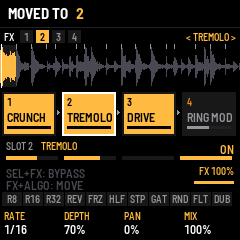
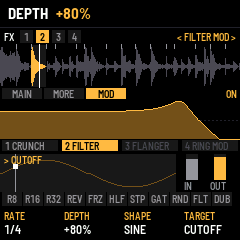
FX: every effect's view, MORE and MOD (docs)
PRD A-49b; the manual's FX chapter (each effect's picture, the MORE knobs per effect,
the MOD page, new screenshots); the control map's FX page (MAIN / MORE / MOD, slots as
tabs); README.

Claude-Session: https://claude.ai/code/session_01YWuRNuPqhdSXLQh1YycYqW

diff --git a/app/site/controlmap.html b/app/site/controlmap.html
@@ -171,8 +171,10 @@
       { n: "OVERLAY", k: ["AMOUNT", "RATE", "SWEEP", "LATCH"], strip: "16 EFFECT CARDS, 4 × 4 · LIT WHILE ON · EACH ITS AMOUNT", note: "Hold a key: its effect, over everything" } ],
       algo: "Break", presets: "Pattern P1–P16", keys: "overlays",
       notes: [["Keys 1-8", "DIVE RISE RADIO WAH CRUSH LO-FI DIST RING"], ["Keys 9-16", "CHOP GATE DUCK PAN BOOM WOBBLE JET CUT"], ["K4 LATCH", "A press on, a press off (stays on other pages)"], ["SEL + ARP", "A random pattern (SEL + SAVE undoes)"]] },
-    { id: "fx", btn: "FX", name: "FX CHAIN", sub: "Four slots in series", again: "next slot (4)", part: true, subs: [1, 2, 3, 4].map(n =>
-      ({ n: "SLOT " + n, k: ["PARAM 1", "PARAM 2", "PARAM 3", "MIX"], strip: "THE CHAIN: 4 SLOTS", note: n === 1 ? "the focused slot outlined" : "" })),
+    { id: "fx", btn: "FX", name: "FX CHAIN", sub: "Four slots in series", again: "next part (MAIN, MORE, MOD), then the next slot", part: true, subs: [
+      { n: "MAIN", k: ["PARAM 1", "PARAM 2", "PARAM 3", "MIX"], strip: "THE EFFECT LIVE · THE CHAIN · ITS MODULATOR · IN / OUT", note: "ALGORITHM: the slot (1–4)" },
+      { n: "MORE", k: ["EXTRA 1", "EXTRA 2", "EXTRA 3", "EXTRA 4"], strip: "THE EFFECT LIVE · THE CHAIN · ITS MODULATOR · IN / OUT", note: "each effect its own: see §6" },
+      { n: "MOD", k: ["RATE", "DEPTH", "SHAPE", "TARGET"], strip: "THE EFFECT LIVE · THE CHAIN · ITS MODULATOR · IN / OUT", note: "ENV follows the effect's input" } ],
       algo: "Slot", presets: "Effect", keys: "slices",
       notes: [["SEL + FX", "Bypass the focused slot"], ["FX held + ALGO", "Move the slot along the chain"], ["Key held + FX", "That key's slice effect on K1–K4"],
               ["MB COMP focused", "FX again steps AMOUNT · LOW · MID · HIGH · GAIN · X-OVER, then the next slot"],
@@ -231,10 +233,10 @@
     const p = PAGES[cur], s = p.subs[sub], steps = p.keys === "steps" || p.keys === "taps" || p.keys === "overlays";
     root.querySelectorAll(".pbtn").forEach((b, i) => b.setAttribute("aria-pressed", String(i === cur)));
     $("subs").innerHTML = p.subs.map((x, i) => '<button type="button" class="sub" data-i="' + i + '" aria-pressed="' + (i === sub) + '">' + x.n + "</button>").join("");
-    const tabs = p.id === "edit" ? ["KICK", "SNARE", "HAT"] : p.subs.length > 1 ? p.subs.map(x => x.n.replace("SLOT ", "")) : [p.name];
-    const on = p.id === "edit" ? (sub < 5 ? 0 : 1) : sub;
+    const tabs = p.id === "edit" ? ["KICK", "SNARE", "HAT"] : p.id === "fx" ? ["1", "2", "3", "4"] : p.subs.length > 1 ? p.subs.map(x => x.n.replace("SLOT ", "")) : [p.name];
+    const on = p.id === "edit" ? (sub < 5 ? 0 : 1) : p.id === "fx" ? 0 : sub;
     $("tabs").innerHTML = "<b>" + p.btn + "</b>" + tabs.map((t, i) => '<span class="' + (i === on ? "on" : "") + '">' + t + "</span>").join("") +
-      (p.part ? "<em>&lt; " + (p.id === "edit" ? s.n.split(" · ")[1] : "TREMOLO") + " &gt;</em>" : "");
+      (p.part ? "<em>&lt; " + (p.id === "edit" ? s.n.split(" · ")[1] : "TREMOLO" + (sub ? " " + s.n : "")) + " &gt;</em>" : "");
     $("strip").innerHTML = s.strip + (s.note ? "<em>" + s.note + "</em>" : "");
     $("knobs").innerHTML = s.k.map((k, i) => k ? "<div>" + k + "<b>·····</b></div>" : '<div class="empty">K' + (i + 1) + "<b>&nbsp;</b></div>").join("");
     $("zones").innerHTML = [["HEADER", "Break, pattern, REC, tempo, meter", 1], ["TABS", p.btn + " › " + tabs.join(" · "), 0], ["WAVEFORM", "The break, the slice lit, the playhead", 1],

diff --git a/app/docs/MANUAL.md b/app/docs/MANUAL.md
@@ -254,14 +254,16 @@ They follow the tempo playing (stopped, they keep time by themselves). SAVE keep
 **FX** opens the master effects chain: four slots in series, the break (through its DJ filter, with the kick when it
 goes through the chain) into slot 1, then 2, 3 and 4, then on to the drums when they go around the chain, the DUB
 pad's delay and the limiter. Each slot holds any effect (two of one are fine), with
-three settings, a mix and a bypass. The tiles show the chain in order (lit: on), the one you tune outlined; below,
-its settings as bars over K1–K4.
+three settings, a mix and a bypass, and more knobs on two more parts (MORE and MOD, below). The screen shows the
+effect you tune as a live picture; under it the chain in order (yours lit, the bypassed ones dim), its modulator and
+its level in and out.
 
-![The FX chain: CRUNCH, then TREMOLO, then DRIVE, RING MOD bypassed](img/screen-fxchain.png "The FX chain")
+![FILTER in slot 2: its response, the cutoff swept by its modulator](img/screen-fxchain.png "The FX chain")
 
 | Control | Does |
 | --- | --- |
-| ALGORITHM · FX again | The slot to tune (1–4); on an MB COMP, FX again first steps through its six parts |
+| ALGORITHM | The slot to tune (1–4) |
+| FX again | The slot's next part: MAIN, MORE, MOD (an MB COMP: its six), then the next slot |
 | PRESETS | The effect in that slot, through the library (EMPTY first); a new effect comes in on, at its own starting settings |
 | K1–K3 · K4 | Its settings · its mix |
 | SEL + FX | That slot on / bypassed |
@@ -304,6 +306,54 @@ The chain starts as CRUNCH → FILTER → FLANGER → RING MOD, all bypassed: SE
 CRUNCH used to be HOME's K4; it is slot 1 now.
 
 STOP fades the break out at once (a white key held keeps looping); the reverb's and the dub delay's tails ring on.
+
+### Each effect's view, MORE and MOD
+
+Every effect (but MB COMP, which has its own page, below) has three parts, stepped by **FX again**: **MAIN** (its
+three settings and mix, as in the table above), **MORE** (its extra knobs) and **MOD** (a modulator that moves one of
+its settings in time). The tab bar names the part (`< FILTER MOD >`), the strip shows it lit.
+
+The picture above follows the sound as you turn:
+
+- **FILTER, FLANGER:** the response from 20 Hz to 20 kHz (the cutoff and resonance; the flanger's comb sweeping as
+  it plays). **EQ:** its three bands, ±12 dB about the middle line.
+- **DRIVE, CLIP, TAPE, CRUNCH:** a tone through it, the clean tone grey behind: rounded, squared, folded, stepped.
+  **PUNCH:** two hits, their peaks held down. **RING MOD:** the tone times its carrier. **TREMOLO:** a tone under two
+  of its cycles.
+- **REVERB:** its decay over 3 s (0 to −60 dB), the pre-delay a gap. **DELAY:** its echoes, left up and right down,
+  each quieter by the feedback.
+
+Below: the chain, then the modulator's cycle with where it is now (the white dot) and what it moves, and the
+effect's level in and out.
+
+![EQ's MORE part: the low shelf moved up, a wider mid](img/screen-fx-more.png "MORE")
+
+| Effect | MORE K1 | K2 | K3 | K4 |
+| --- | --- | --- | --- | --- |
+| FILTER | Drive into it | Slope: 12 · 24 dB | Spread (the right's cutoff higher: a stereo filter) | |
+| CRUNCH | Tone (a low-pass after it; OFF at full) | Dither (noise under the steps) | | |
+| DRIVE | Shape: SOFT · TUBE · HARD · FOLD | Bias (lopsided: even harmonics) | Low cut before it (OFF … 800 Hz) | |
+| PUNCH | Ratio (1.5:1 … 20:1) | Make-up (+0 … +12 dB) | SC HPF (the lows don't pump it; OFF … 300 Hz) | |
+| FLANGER | Delay (where the sweep starts, 0.2 – 2.7 ms) | Spread (the right's phase, 0 – 180°) | Sync (OFF, or the sweep on the tempo: 4 bars … 1/4) | |
+| RING MOD | Wave: SINE · TRI · SQUARE | Mode: RING · AM | | |
+| TREMOLO | Shape: SINE · TRI · SQUARE · SAW | Smooth (the edges rounded) | | |
+| REVERB | Width | Low cut into it (OFF … 600 Hz) | Mod (the tail's wobble) | Diffusion |
+| DELAY | Width (mono … full ping-pong) | Low cut in its loop (each echo thinner) | Duck (the echoes duck under what plays) | |
+| EQ | Low shelf's frequency (40 – 400 Hz) | Mid's Q (0.3 – 4) | High shelf's frequency (2 – 16 kHz) | Level (±12 dB) |
+| TAPE | Flutter | Wow's rate (0.1 – 3 Hz) | Hiss | |
+| CLIP | Bias (lopsided) | Output (−12 … 0 dB) | | |
+
+Every MORE knob starts where the effect always was, so a saved sound plays as it did.
+
+| MOD | K1 | K2 | K3 | K4 |
+| --- | --- | --- | --- | --- |
+| | Rate on the tempo (4 bars … 1/16, 1/4T, 1/8T) | Depth (OFF in the middle; left moves it the other way) | Shape: SINE · TRIANGLE · SAW · RAMP · SQUARE · S&H · ENV | Target: the effect's K1, K2, K3 or MIX |
+
+**ENV** follows the effect's own input: the louder the break hits, the further it moves (a filter that opens on
+every snare, a drive that bites on the kicks). **S&H** jumps to a new random place each cycle. The foot shows the
+setting it moves as the modulator leaves it.
+
+![TAPE: a tone through its curve, the clean tone grey behind it](img/screen-fx-tape.png "TAPE")
 
 ### MB COMP
 
@@ -488,7 +538,7 @@ break alone: sweep it down and the drums stay full on top. The FLT pad throws it
 | LFO (mixer) | Break level | Kick level | Snare and hat level | FX (the chain, dry to wet) |
 | LFO again (groove) | Swing | Drums: through the chain or around it | | |
 | HOME again (generator) | Complexity | Anchor | Roll | Fill |
-| FX (the chain) | the focused slot's effect: its three settings (an MB COMP: six parts on FX again, see §6) | | | Its mix |
+| FX (the chain) | the focused slot's effect: its three settings (FX again: its MORE and MOD parts; an MB COMP its six, see §6) | | | Its mix |
 | SEQ (patterns) | Slice | Pitch | Hits | Reverse |
 | SEQ, a drum lane | Fill | Rotate | Clear / 4x4 | Copy |
 | GLO (global) | Clock in | Clock out | Bluetooth | MIDI to |

diff --git a/docs/PRD.md b/docs/PRD.md
@@ -165,6 +165,7 @@ ABG's four, plus the master section a live unit needs.
 | A-46 | **REVERB** in the chain: a Dattorro plate (pre-delay, four input diffusers, a modulated two-half tank, fourteen output taps), at 22.05 kHz inside on 16-bit lines (~35 KB RAM; the flangers' lines shortened to 256 to pay for it); SIZE (decay), TONE (damping), PRE (0–60 ms), MIX its level over the dry; one in the chain. STOP now fades the break out (it looped on before) so tails ring alone | P1 | *Done 1 Nov 2026; engine tests: an impulse rings and dies, left and right decorrelated, a bigger size rings longer, a second REVERB passes; RAM 79 KB of 96* |
 | A-49 | **MB COMP** (a 3-band compressor: splits at 200 Hz and 2.5 kHz that sum back exactly; per band an amount = threshold 0 … −30 dB and ratio 1 … 8:1 together, made up by half the reduction at full scale; attack/release per band, low slow, high fast; MIX parallel) and **CLIP** (drive 0 … +24 dB, knee soft … hard, ceiling 0 … −12 dB) in the chain. The FX page shows MB COMP's reduction per band under K1–K3 | P1 | *Done 1 Nov 2026; engine tests: the bands sum back at 0, LOW pressed: +14 dB in gives under +3.5 dB out and 1 kHz stays, CLIP clean below its edge and held at its ceiling* |
 | A-49a | **MB COMP's detail** (4 Nov 2026): an MB COMP focused has six parts, FX again stepping them before the next slot (ALGORITHM still picks the slot, opening on AMOUNT): AMOUNT (each band's amount, a macro from untouched to the band's own threshold and ratio, and MIX: as A-49), LOW / MID / HIGH (THRESH −48 … 0 dB, RATIO 1:1 … 20:1 and LIMIT in 15 steps, ATTACK 0.1 – 100 ms, RELEASE 10 – 1000 ms), GAIN (each band −12 … +12 dB after its make-up, SOLO: one band alone, no dry) and X-OVER (the low split 40 – 800 Hz, the high 1 – 12 kHz, KNEE hard … 12 dB soft, OUTPUT ±12 dB). The defaults are A-49's (−30 dB, 8:1, 10/150, 5/100, 2/60 ms, 200 Hz / 2.5 kHz, hard). Its own view replaces the chain's tiles: the parts as tabs; the spectrum 20 Hz – 20 kHz in the bands' colours, filled under the response right now (each band at its reduction and gain, the make-up left out so a pressed band dips; dotted where it rests), the splits marked; per band its in/out curve with its level as a dot riding it, its level in with the threshold, its reduction with a peak held 1 s, the ratio, threshold and gain as they act; ~30 frames a second. `brk_mbc_t` per slot (`brk_fx_set_mbc`, `brk_fx_mb_meter`), appended to the settings (320 B, moves with its slot) | P1 | *Done; engine test test_mb_detail (1:1 leaves the band, LIMIT presses harder than 8:1, GAIN +12 dB ×4, OUTPUT −12 dB ÷4, SOLO LOW / HIGH, the low split moved takes 500 Hz, ATTACK and RELEASE, the knee under the threshold); scenario mbcomp.txt; +5.7 KB flash (576.9 KB), +0.8 KB RAM* |
+| A-49b | **Every effect's view, MORE and MOD** (4 Nov 2026): each effect but MB COMP has three parts on FX again (then the next slot; ALGORITHM picks the slot): MAIN (as A-45), MORE (`brk_fxx_t` x[0..3]: FILTER drive, 12/24 dB, stereo spread; CRUNCH tone, dither; DRIVE shape SOFT/TUBE/HARD/FOLD, bias, low cut; PUNCH ratio 1.5–20:1, make-up, side-chain HPF; FLANGER start delay, spread, tempo sync; RING MOD wave, RING/AM; TREMOLO shape, smooth; REVERB width, low cut, mod, diffusion; DELAY width, loop low cut, duck; EQ low and high shelf frequencies, mid Q, level; TAPE flutter, wow rate, hiss; CLIP bias, output), every default the effect as it was; MOD (x[4..7]: rate on the tempo 4 bars … 1/16 and triplets, bipolar depth, shape SINE/TRI/SAW/RAMP/SQUARE/S&H/ENV (the slot's own input followed), target K1/K2/K3/MIX; applied once a block to the render's copy of the slot). The extras carry the effect they are for: another effect's are not used (its defaults are), so old saves and moved slots stay right. Its view replaces the slot tiles: the parts; a picture computed from the settings as modulated now (FILTER and FLANGER responses, EQ ±12 dB, a tone through DRIVE / CLIP / TAPE / CRUNCH / PUNCH / RING / TREMOLO, REVERB's decay in dB, DELAY's echoes); the chain as chips; the modulator's cycle with its dot and target; the slot's level in and out (`brk_fx_meter`). Appended to the settings (`fxx`, 36 B a slot, moves with its slot). Flash: the engine's block-rate code is `BRK_COLD` (minsize) to pay for it | P1 | *Done; engine test test_fx_extras (every effect × every extra at both ends × every modulator bounded; FILTER 24 dB, SPREAD; EQ LOW F, LEVEL; CLIP OUTPUT; REVERB and DELAY WIDTH 0; PUNCH RATIO; MOD sweeping a cutoff; ENV); scenario fxviews.txt; image 581,036 B of 581,564* |
 | A-45 | **Master bus:** DJ filter (one knob LP↔HP), compressor with drive, brickwall limiter | P1 | No output clipping at max settings |
 | A-46 | Send FX: tape/dub delay (tempo-synced, feedback, filter in loop) and small reverb | P1 | |
 
@@ -306,7 +307,7 @@ on the keys, eyes on the crowd.
 | HOME again (generator) | Complexity | Anchor | Roll | Fill | Retrig 2× · 3× · 4× · 8× |
 | ARP (overlay, built) | Amount (the effect touched last) | Rate | Sweep | Latch | White keys: the 16 effects (B-52) |
 | EDIT (break) | Slice select | Start nudge | Slice count | Native BPM | Gain · Trim · Name · Mode (repitch/stretch) |
-| FX | Focused FX param 1 | param 2 | param 3 | Mix | Next FX · on/off |
+| FX | Focused FX param 1 | param 2 | param 3 | Mix | FX again: MORE, MOD (an MB COMP its six parts), then the next slot · SEL + FX on/off |
 | ENV (snare / hat, built) | Level | Tune | Decay | Tone | ENV again: snap / cut · drive |
 | LFO (planned; the button is the MIXER now: an LFO needs another home) | Rate (sync) | Depth | Target | Shape | Retrigger on bar |
 | GLO | MIDI channel | Clock source | Clock out | Looper length | Pad map · Velocity · Brightness |

diff --git a/README.md b/README.md
@@ -43,7 +43,7 @@ on the device. The looper and song mode are next: see the [PRD](docs/PRD.md) for
 | HOME | PERFORM: K1 **gate** (how much of every slice sounds: 100 % off, down to 5 % for tight, clipped chops) · K2 **DJ filter** on the break alone (left low-pass, right high-pass) · K3 FX · K4 complexity (mirrors of the MIXER's and the GENERATOR's) · **HOME again**: GENERATOR, K1 complexity · K2 anchor · K3 roll · K4 fill |
 | LFO | **MIXER**: K1 break level · K2 kick level · K3 snare and hat level · K4 **FX** (the whole effects chain, dry to wet), with meters · **LFO again**: K1 swing · K2 the drums through the chain or around it |
 | ARP | **OVERLAY**: sixteen effects on the white keys, over everything, on while held (any together): DIVE, RISE, RADIO, WAH, CRUSH, LO-FI, DIST, RING, CHOP, GATE, DUCK, PAN, BOOM, WOBBLE, JET, CUT; K1 the amount of the one touched last · K2 rate · K3 sweep · K4 latch · SEL + ARP: a random pattern |
-| FX | The **master FX chain**: four slots in series. ALGORITHM (or FX again) picks a slot, PRESETS puts an effect in it (FILTER, CRUNCH, DRIVE, PUNCH, FLANGER, RING MOD, TREMOLO, REVERB, DELAY, EQ, TAPE, MB COMP, CLIP, or EMPTY), K1–K3 its settings and K4 its mix, SEL + FX bypasses it, FX held + ALGORITHM moves it along the chain. MB COMP has a page of its own: a live spectrum and per-band curves and meters, and FX again steps its six parts (amounts, each band's threshold, ratio, attack and release, gains and solo, the splits, knee and output) |
+| FX | The **master FX chain**: four slots in series. ALGORITHM (or FX again) picks a slot, PRESETS puts an effect in it (FILTER, CRUNCH, DRIVE, PUNCH, FLANGER, RING MOD, TREMOLO, REVERB, DELAY, EQ, TAPE, MB COMP, CLIP, or EMPTY), K1–K3 its settings and K4 its mix, SEL + FX bypasses it, FX held + ALGORITHM moves it along the chain. Every effect shows itself live (its response, a tone through it, its decay or its echoes) with its level in and out, and FX again steps its parts: MORE (extra knobs of its own) and MOD (a tempo-synced or envelope modulator on any of its settings); MB COMP has six parts (amounts, each band's threshold, ratio, attack and release, gains and solo, the splits, knee and output) |
 | EDIT | **DRUM DESIGN**: the kick, the snare and the hat (EDIT again: the next drum; the tabs show which). **KICK**: four layers (SUB, PUNCH, GRIT, CLICK) into a clipper; ALGORITHM turns its parts: MIX (the layers' levels) → each layer (level, pitch, decay, tone) and its FX (drive, crunch, filter, ring mod) → MACRO (SUB, PUNCH, GRIT, INTENSITY) → OUT (volume); PRESETS six kicks (909 … ROTTERDAM … DISTORTO). **SNARE / HAT**: tuned body, band-passed noise and crack; six 808-ratio squares and noise; ALGORITHM SOUND (level, tune, decay, tone) / SHAPE (snap or cut, drive), PRESETS four each. Their steps are SEQ's lanes; MIDI 36 / 38 / 42 play them |
 | GLO | GLOBAL: K1 MIDI clock in (follow tempo and start / stop), K2 clock out (24 ppqn, start / stop), K3 Bluetooth MIDI on / off (shows up as "CHOPPAH XXXX" in a MIDI app's Bluetooth page), K4 where MIDI goes (USB, Bluetooth, both). **GLO again** (or ALGORITHM): K1 pitch KEEP LENGTH (the default: pitch without changing the slices' length) or SPEED (the classic repitch), K2 grain size, K3 **snap**: where a key pressed while playing lands (OFF, 1/8, 1/4, 1/2, 1, 2, 4 slices), K4 **RESET ALL** (turn twice: every setting and pattern back to the start, pairings kept). **GLO a third time**: **Bluetooth audio out** to headphones or a speaker: K1 on / off, K2 the device, K3 scan (while streaming: a left / right test; K2 then picks joint or plain stereo coding), K4 connect / hang up; stereo (150–300 ms late: for listening) |
 | SAVE | Keep the settings and the 16 patterns (a newer version keeps them: new settings start at their defaults) |
